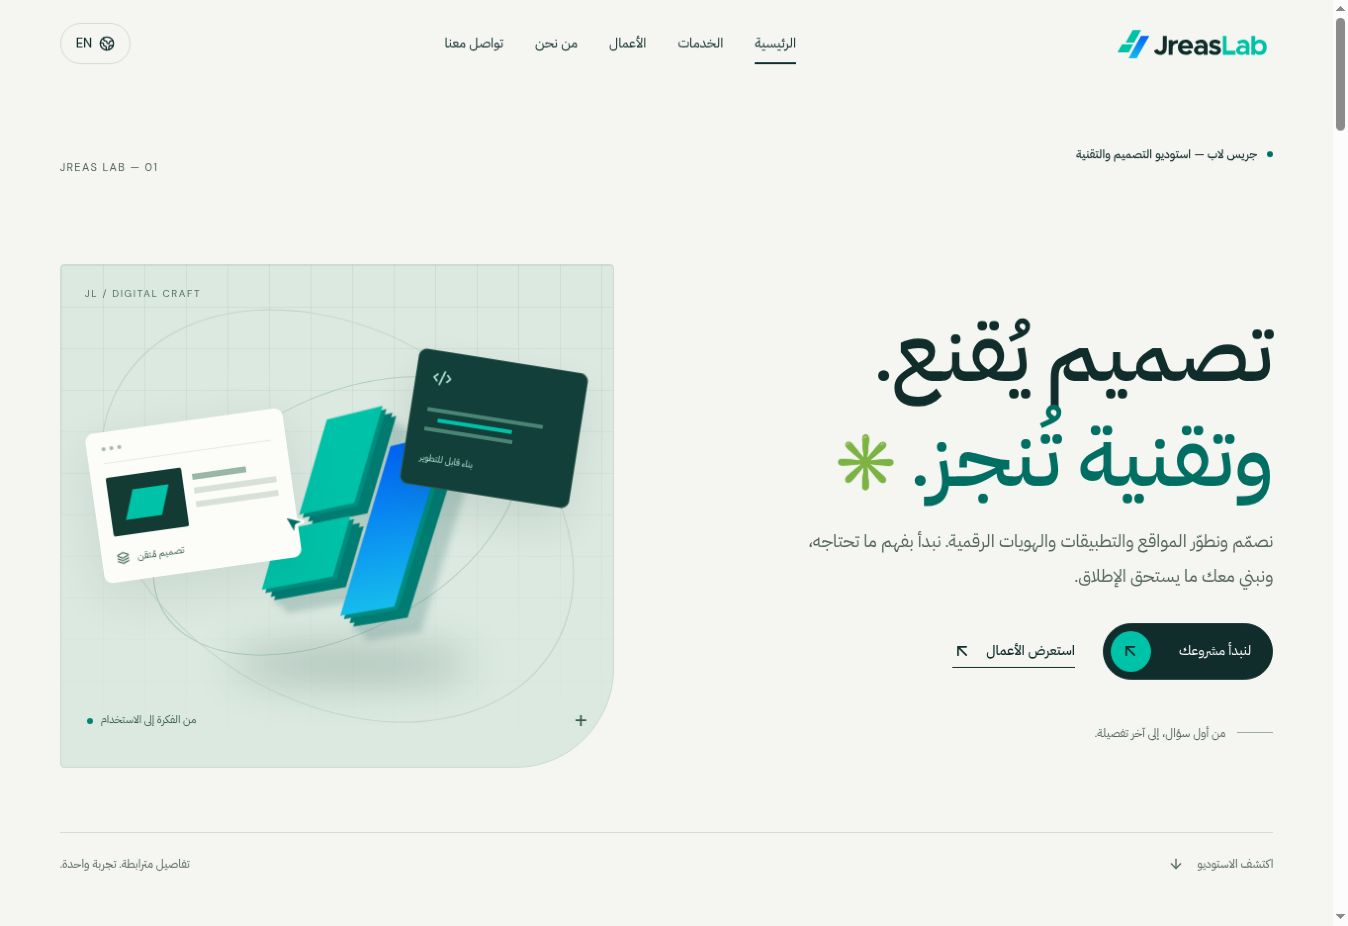
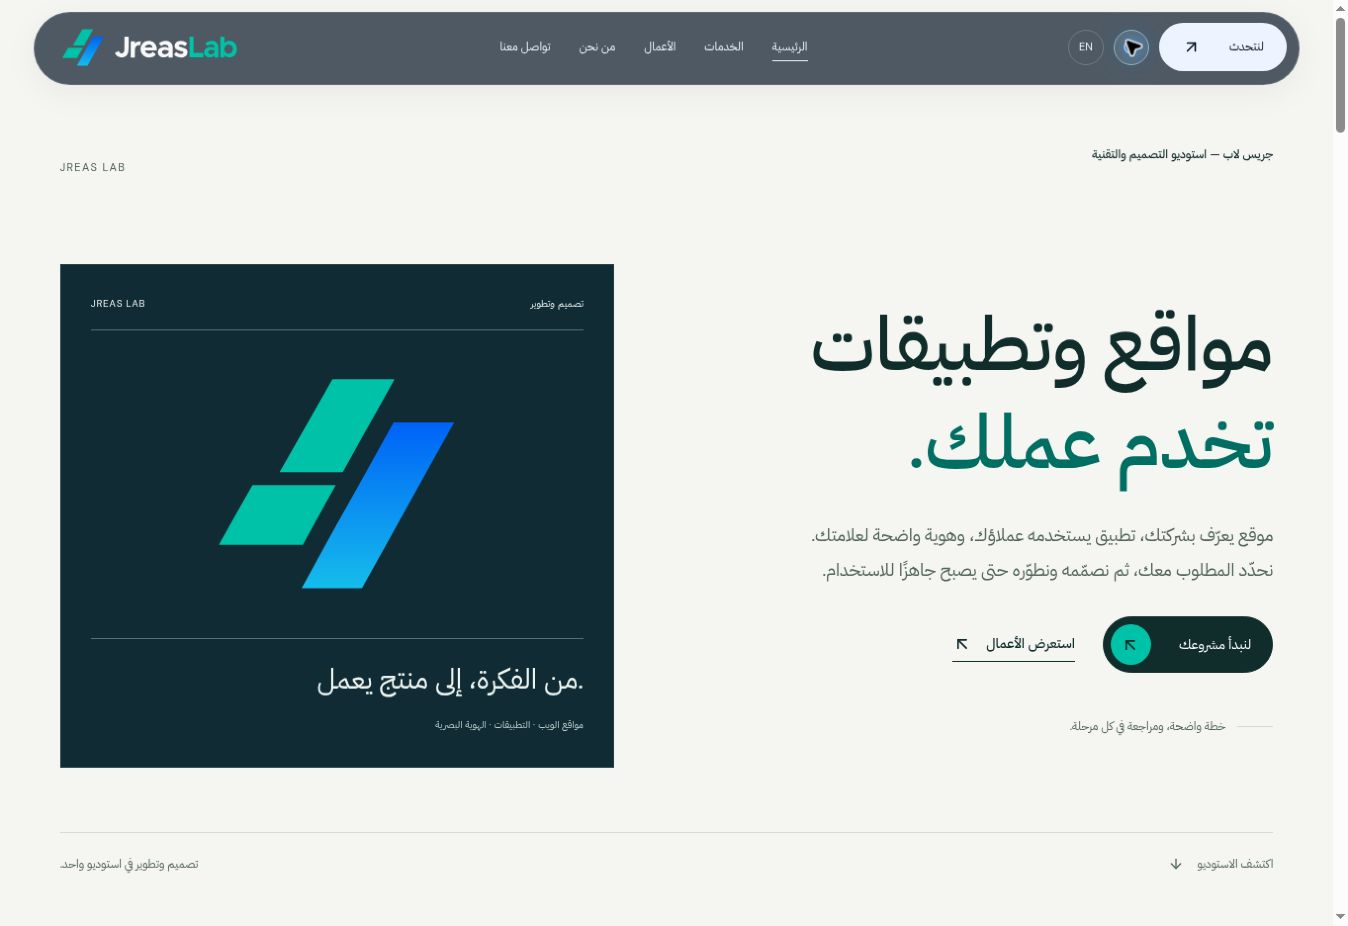
docs: record theme and navigation verification with live screenshots

diff --git a/docs/QA.md b/docs/QA.md
@@ -40,7 +40,7 @@ Actual same-origin iframe viewports were used; these are browser layout checks, 
 
 The 15px difference is the browser scrollbar. None of these documents had horizontal overflow. Raw passing records: [viewport-audits.json](viewport-audits.json), [contact-audit.json](contact-audit.json), [service-audit.json](service-audit.json). During testing, contrast issues in small process labels, a concept illustration and English text on sage backgrounds were found and fixed; the table records passing checks. Automated axe checks cover these pages and rules, not every possible interaction or full accessibility certification.
 
-Screenshots: [desktop.jpg](desktop.jpg) and [mobile.jpg](mobile.jpg). The desktop capture uses the browser's approximately 1363px visible viewport. The mobile image is a clipped screenshot of the actual 390px-wide iframe viewport.
+Screenshots: [desktop.jpg](desktop.jpg) and [mobile.jpg](mobile.jpg). The desktop capture uses the browser's approximately 1363px visible viewport. The mobile image is a clipped screenshot of the actual 360px-wide iframe viewport. The latest screenshots include the light desktop, dark desktop and dark mobile modes.
 
 ## Performance limits
 
@@ -51,3 +51,9 @@ No Lighthouse score is claimed. Chromium/Lighthouse cannot launch in the code ex
 The email backend is implemented, but live transport needs a server-only Resend API key and verified sender in the new Vercel project's environment. See [CONTACT_SETUP.md](CONTACT_SETUP.md). The three portfolio studies are original concepts; verified client case studies/images can replace them later.
 
 The new production hostname is publicly reachable. Deployment protection settings were retained; no existing official domain, repository or old hosting project was modified.
+
+## Theme and navigation follow-up
+
+The persistent dark/light implementation passed lint, all 18 tests and the production build. Rechecked Arabic and English homepages at 390px in both themes: zero axe WCAG 2 A/AA and 2.1 AA violations, document width 375px. Arabic at 360px passed in both themes, document width 345px. Checks were taken after transitions settled. No horizontal overflow was observed. The final dark 360px record is [theme-audit-360-dark.json](theme-audit-360-dark.json).
+
+Verified reload persistence, mobile menu and Escape dismissal, language switching and the reference navigation contraction (800 × 62px after scrolling). No fresh production application warnings/errors were captured. See [THEMES_NAVIGATION.md](THEMES_NAVIGATION.md).

diff --git a/docs/THEMES_NAVIGATION.md b/docs/THEMES_NAVIGATION.md
@@ -1,0 +1,25 @@
+# Appearance and navigation — 13 November 2026
+
+## Theme behavior
+
+The site follows `prefers-color-scheme` until the visitor selects light or dark. The selection is stored under `jreas-theme`, applied before the first paint and synchronized between tabs. Both modes cover content surfaces, inputs, buttons, status messages and navigation. Concept illustrations retain their own art palettes.
+
+Desktop has a sun/moon button beside the language control. Mobile places both controls inside the menu. Accessible button names describe the action and are translated.
+
+## Reference navigation
+
+The floating capsule uses the original Jreas Lab identity, physical logo-left arrangement, central localized links and rounded contact action. The expanded shell is up to 1280px wide and 74px high. Above 110px scroll it contracts to 800px × 62px, hides the wordmark and keeps the symbol. It expands below 32px. Mobile uses the reference two-line menu with keyboard focus management and Escape dismissal.
+
+## Editorial changes
+
+Replaced ornamental code fragments, cursors, orbit lines and rotating stars with a restrained brand poster. Simplified the hero, section headings and calls to action in both languages. Kept the six actual services, including data analytics and AI; portfolio concepts remain explicitly attributed.
+
+## Verification
+
+- Lint, production build and all 18 automated tests passed.
+- Arabic and English at 390px: both modes had zero violations in the executed axe WCAG 2 A/AA and 2.1 AA rules.
+- Arabic at 360px: both modes passed; final dark result is saved separately.
+- Reload persistence, mobile menu, Escape, language switch and scroll contraction checked in the deployed browser.
+- No Lighthouse score or complete accessibility certification is claimed.
+
+Screenshots: [light desktop](desktop.jpg), [dark desktop](dark.jpg), [dark mobile](mobile.jpg).

diff --git a/README.md b/README.md
@@ -57,7 +57,7 @@ Service slugs: `web-development`, `mobile-apps`, `ui-ux`, `branding`, `digital-m
 
 1. Update service and concept data in both languages together.
 2. Change interface copy in `src/i18n/resources.js`.
-3. Tokens in `src/styles/global.css`; hero/header styling in their CSS Modules.
+3. Base tokens in `src/styles/global.css`, dark tokens in `src/styles/themes.css`; hero/header styling in their CSS Modules.
 4. All three showcased projects are explicitly labelled original **design concepts**, not client commissions. Replace them with verified, approved case studies when available; preserve honest attribution and evidence for outcomes.
 5. Brand provenance and reference research: [docs/RESEARCH.md](docs/RESEARCH.md). Original logo vector is from the existing Jreas Lab identity site; the light-background version changes only the white wordmark colour. The favicon crops the original symbol's viewBox.
 
@@ -94,8 +94,14 @@ Brand assets belong to Jreas Lab. No reference-site images, code or brand assets
 
 A separate, unlinked `/__review` page provides 360/390/768/1366/1920px iframe viewports and an on-demand axe accessibility check for maintainers. It is noindex, excluded from the sitemap, and its audit code is loaded separately from the public website. It contains no privileged tools or private data.
 
+## Appearance
+
+Light and dark modes follow the system preference until a visitor chooses a mode. The choice persists locally. The desktop theme button sits beside the language control; mobile controls live inside the menu. Navigation follows the original Jreas Lab capsule layout and scroll contraction. See [theme and navigation verification](docs/THEMES_NAVIGATION.md).
+
 ## Preview screenshots
 
 ![Arabic desktop homepage](docs/desktop.jpg)
+
+![Arabic dark homepage](docs/dark.jpg)
 
 ![Arabic mobile homepage](docs/mobile.jpg)
